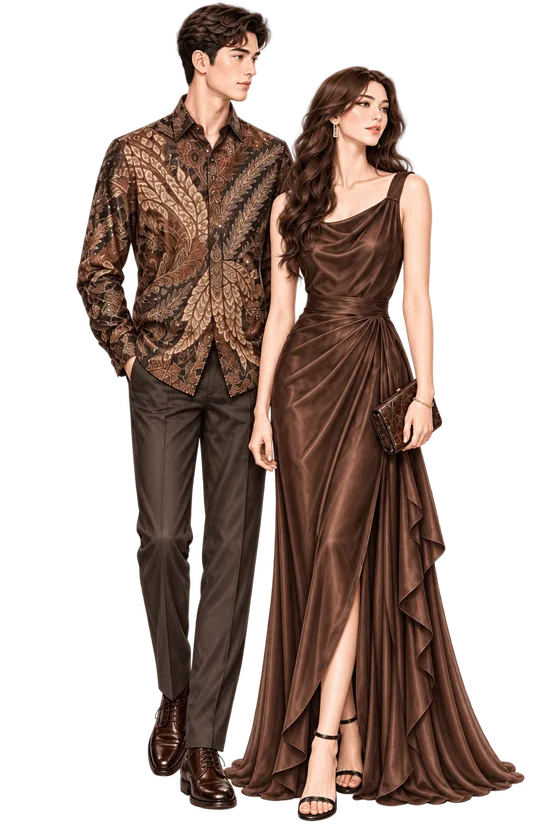
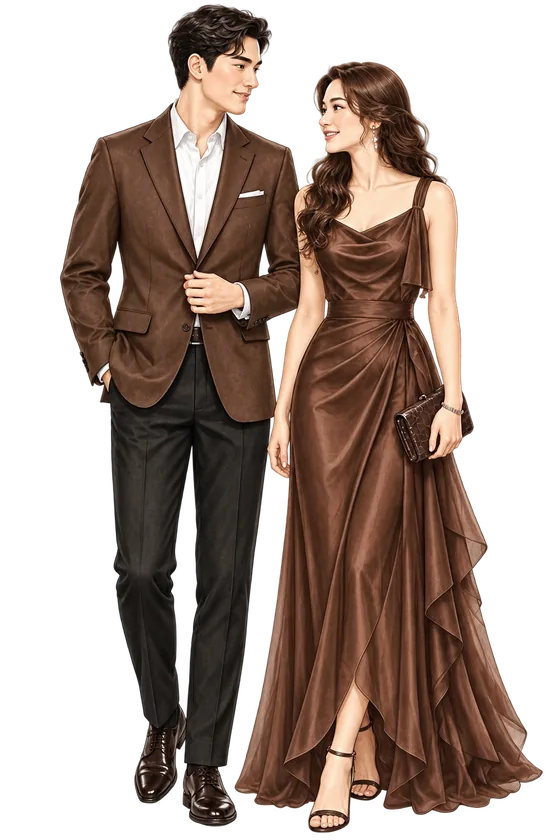
Dress code: third illustration set, swatches resampled to match
Same source filenames, new artwork. Re-exported at 560x840 WebP (~79KB each);
dimensions and aspect are unchanged, so the markup and layout needed nothing.

Resampled the palette, as the README says to when the art changes. The new set
runs warmer than the last — garments sit at hue 18-24 rather than 15-20 — so
the old swatches read noticeably greyer than the figures beside them. The ramp
is anchored on actual garment colours: the two darks from the brown couple, the
suit tone from the taupe couple, then a taupe continuing the same drift.
Saturation now falls cleanly 40/36/24/16 while lightness climbs 21/32/50/66.

diff --git a/index.html b/index.html
@@ -201,10 +201,10 @@
         <img src="assets/img/dresscode-2.webp" alt="Dress code example" loading="lazy" width="560" height="840">
       </div>
       <div class="dc-swatches reanimate fade delay600ms">
-        <i style="background:#4A3226"></i>
-        <i style="background:#6E5040"></i>
-        <i style="background:#92786A"></i>
-        <i style="background:#B4A396"></i>
+        <i style="background:#4B2D20"></i>
+        <i style="background:#6F4834"></i>
+        <i style="background:#9E7861"></i>
+        <i style="background:#B6A69A"></i>
       </div>
       <p class="dc-caption reanimate fade delay800ms">We kindly ask our guests not to wear red.</p>
     </div>

diff --git a/README.md b/README.md
@@ -133,7 +133,7 @@ rather than a pinned `maps.app.goo.gl` short link.
 - Cover/hero video ships as **two encodes** — `cover-portrait.mp4` (9:16, phones)
   and `cover-landscape.mp4` (16:9, desktop), switched by `<source media>`.
 - Dress code shows two illustrated looks, `dresscode-1..2.webp` (560x840,
-  ~82KB each). WebP because these are soft-gradient artwork on transparency:
+  ~79KB each). WebP because these are soft-gradient artwork on transparency:
   a 255-colour PNG palette bands them badly and full-depth PNG is 4x larger.
   The strip is capped at 420px from the tablet breakpoint up: two 2:3 portraits
   across a full desktop column would stand 465px tall and push the swatches and
